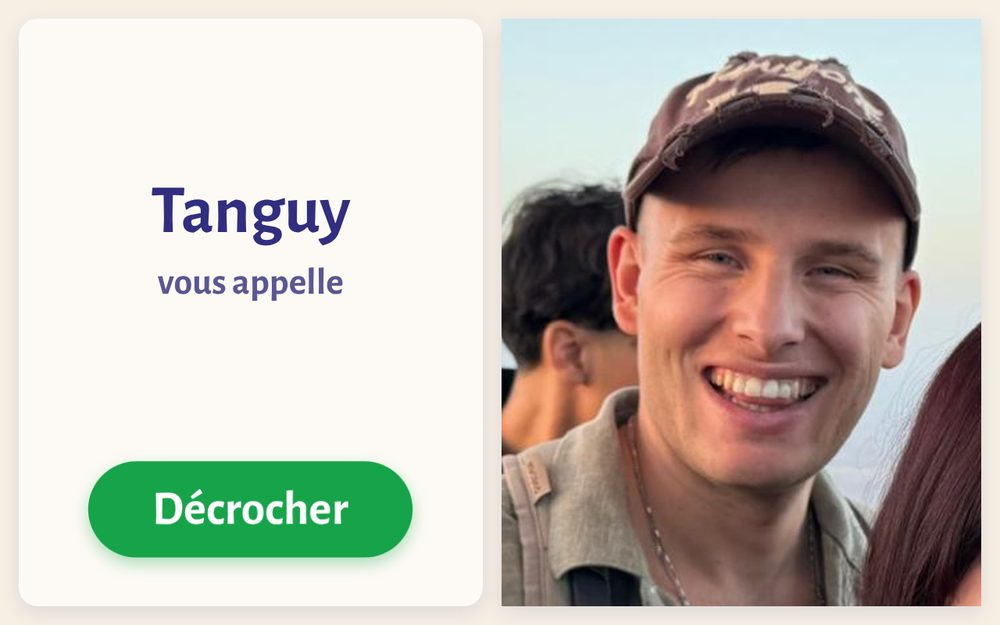
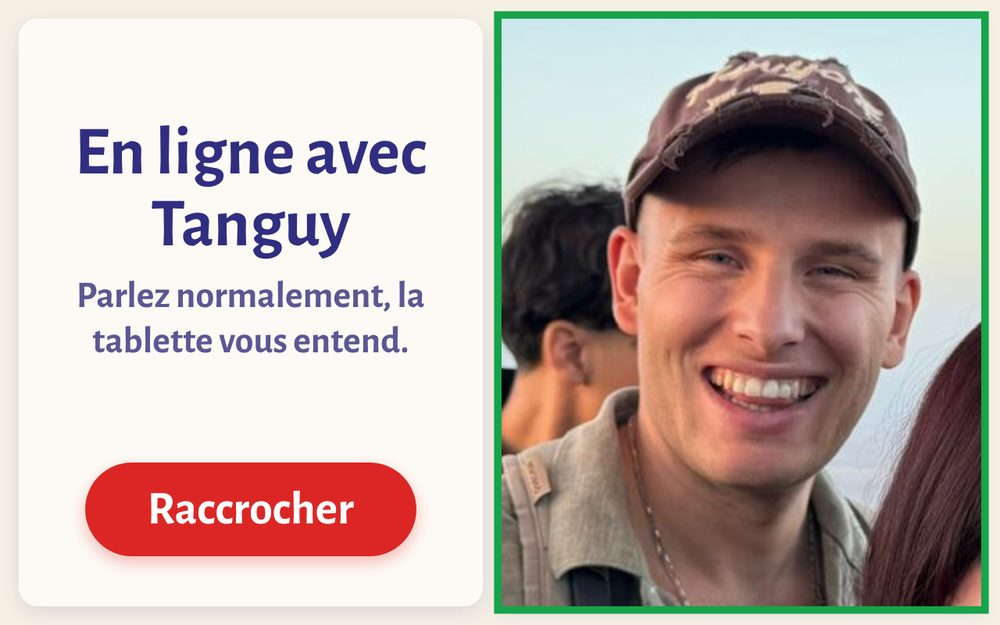
Vitrine : étape 3 avec l'appel en cours
Claude-Session: https://claude.ai/code/session_011YPFtrwSQ7j4eGMAL7LTxB

Changed region(s): [[0.496, 0.0, 0.992, 1.0], [0.062, 0.1824, 0.434, 0.5776], [0.062, 0.7296, 0.434, 0.912]]

diff --git a/vitrine/accueil.html b/vitrine/accueil.html
@@ -306,7 +306,7 @@ footer a { color: var(--muted); }
         <div class="step">
           <h3>Vous l'appelez en vidéo</h3>
           <p>La tablette sonne et décroche toute seule dès qu'elle se met face à l'écran. Et elle peut vous appeler en touchant votre photo.</p>
-          <figure class="visuel"><div class="tab"><picture><source type="image/webp" srcset="ecran-appel.webp"><img src="ecran-appel.jpg" alt="La tablette : Julie vous appelle, bouton Décrocher" width="1000" height="625" loading="lazy"></picture></div></figure>
+          <figure class="visuel"><div class="tab"><picture><source type="image/webp" srcset="ecran-appel.webp"><img src="ecran-appel.jpg" alt="La tablette en appel vidéo avec Tanguy, bouton Raccrocher" width="1000" height="625" loading="lazy"></picture></div></figure>
         </div>
       </div>
     </div>
